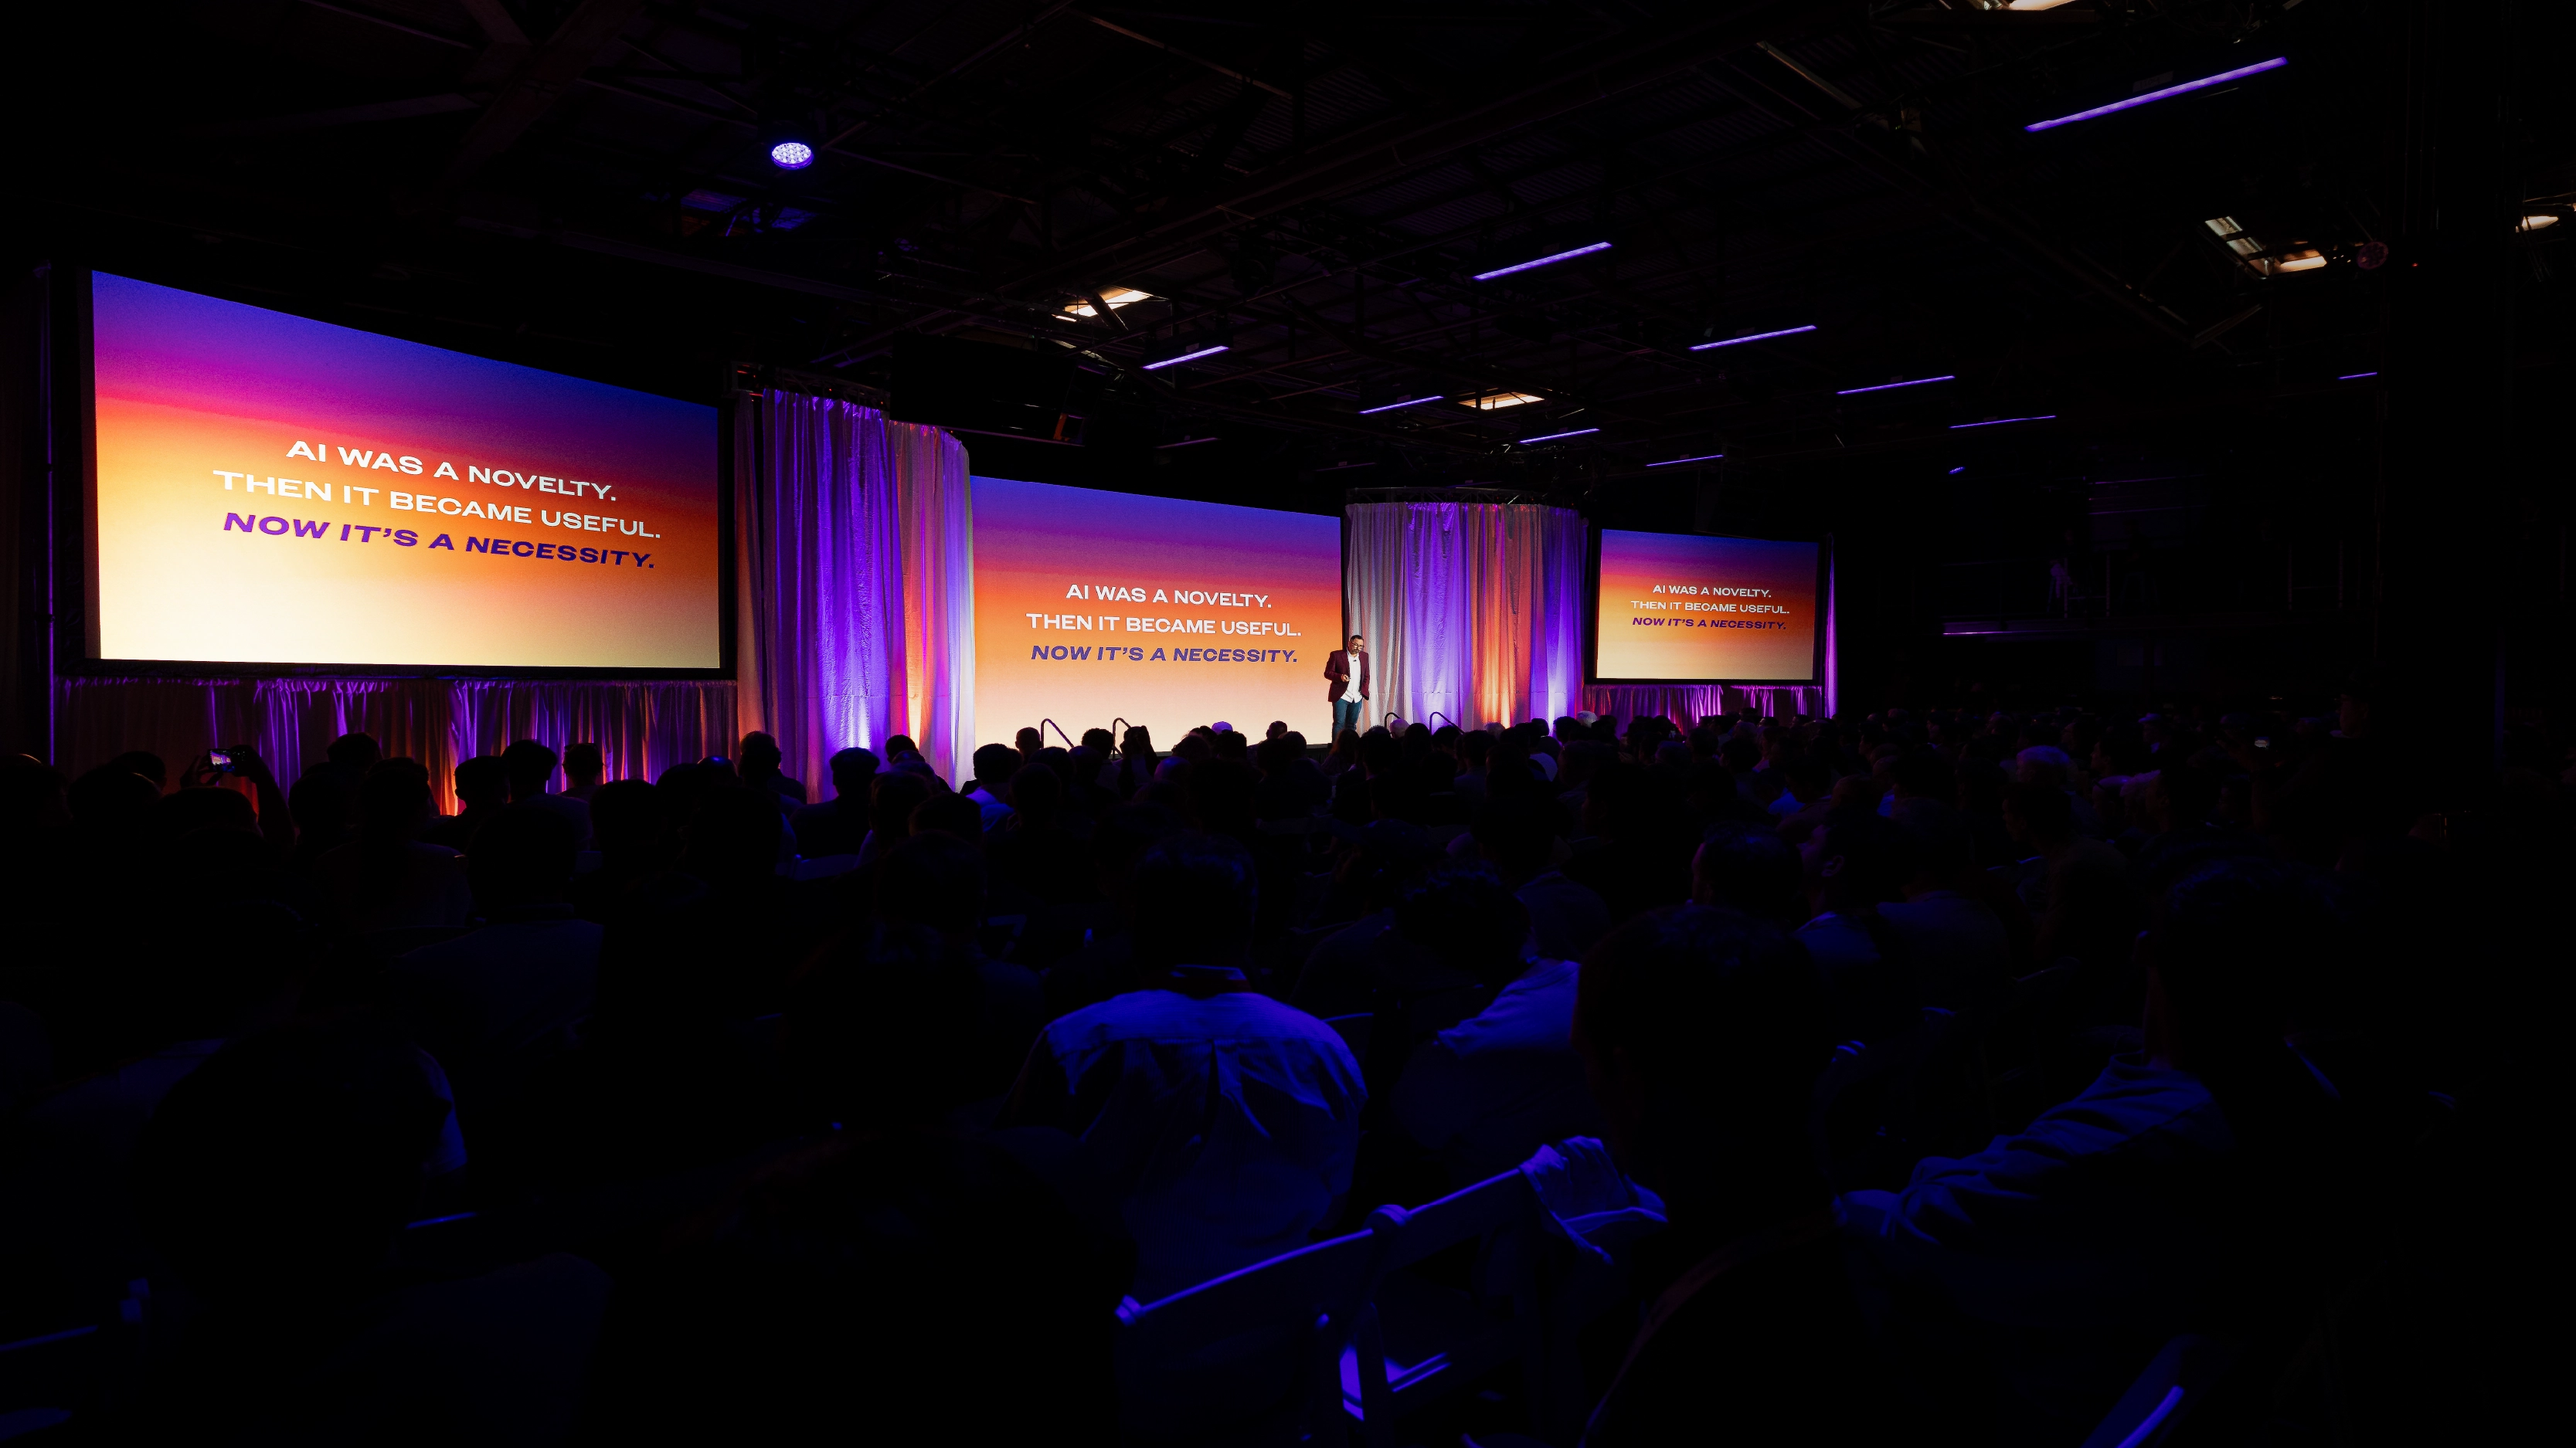
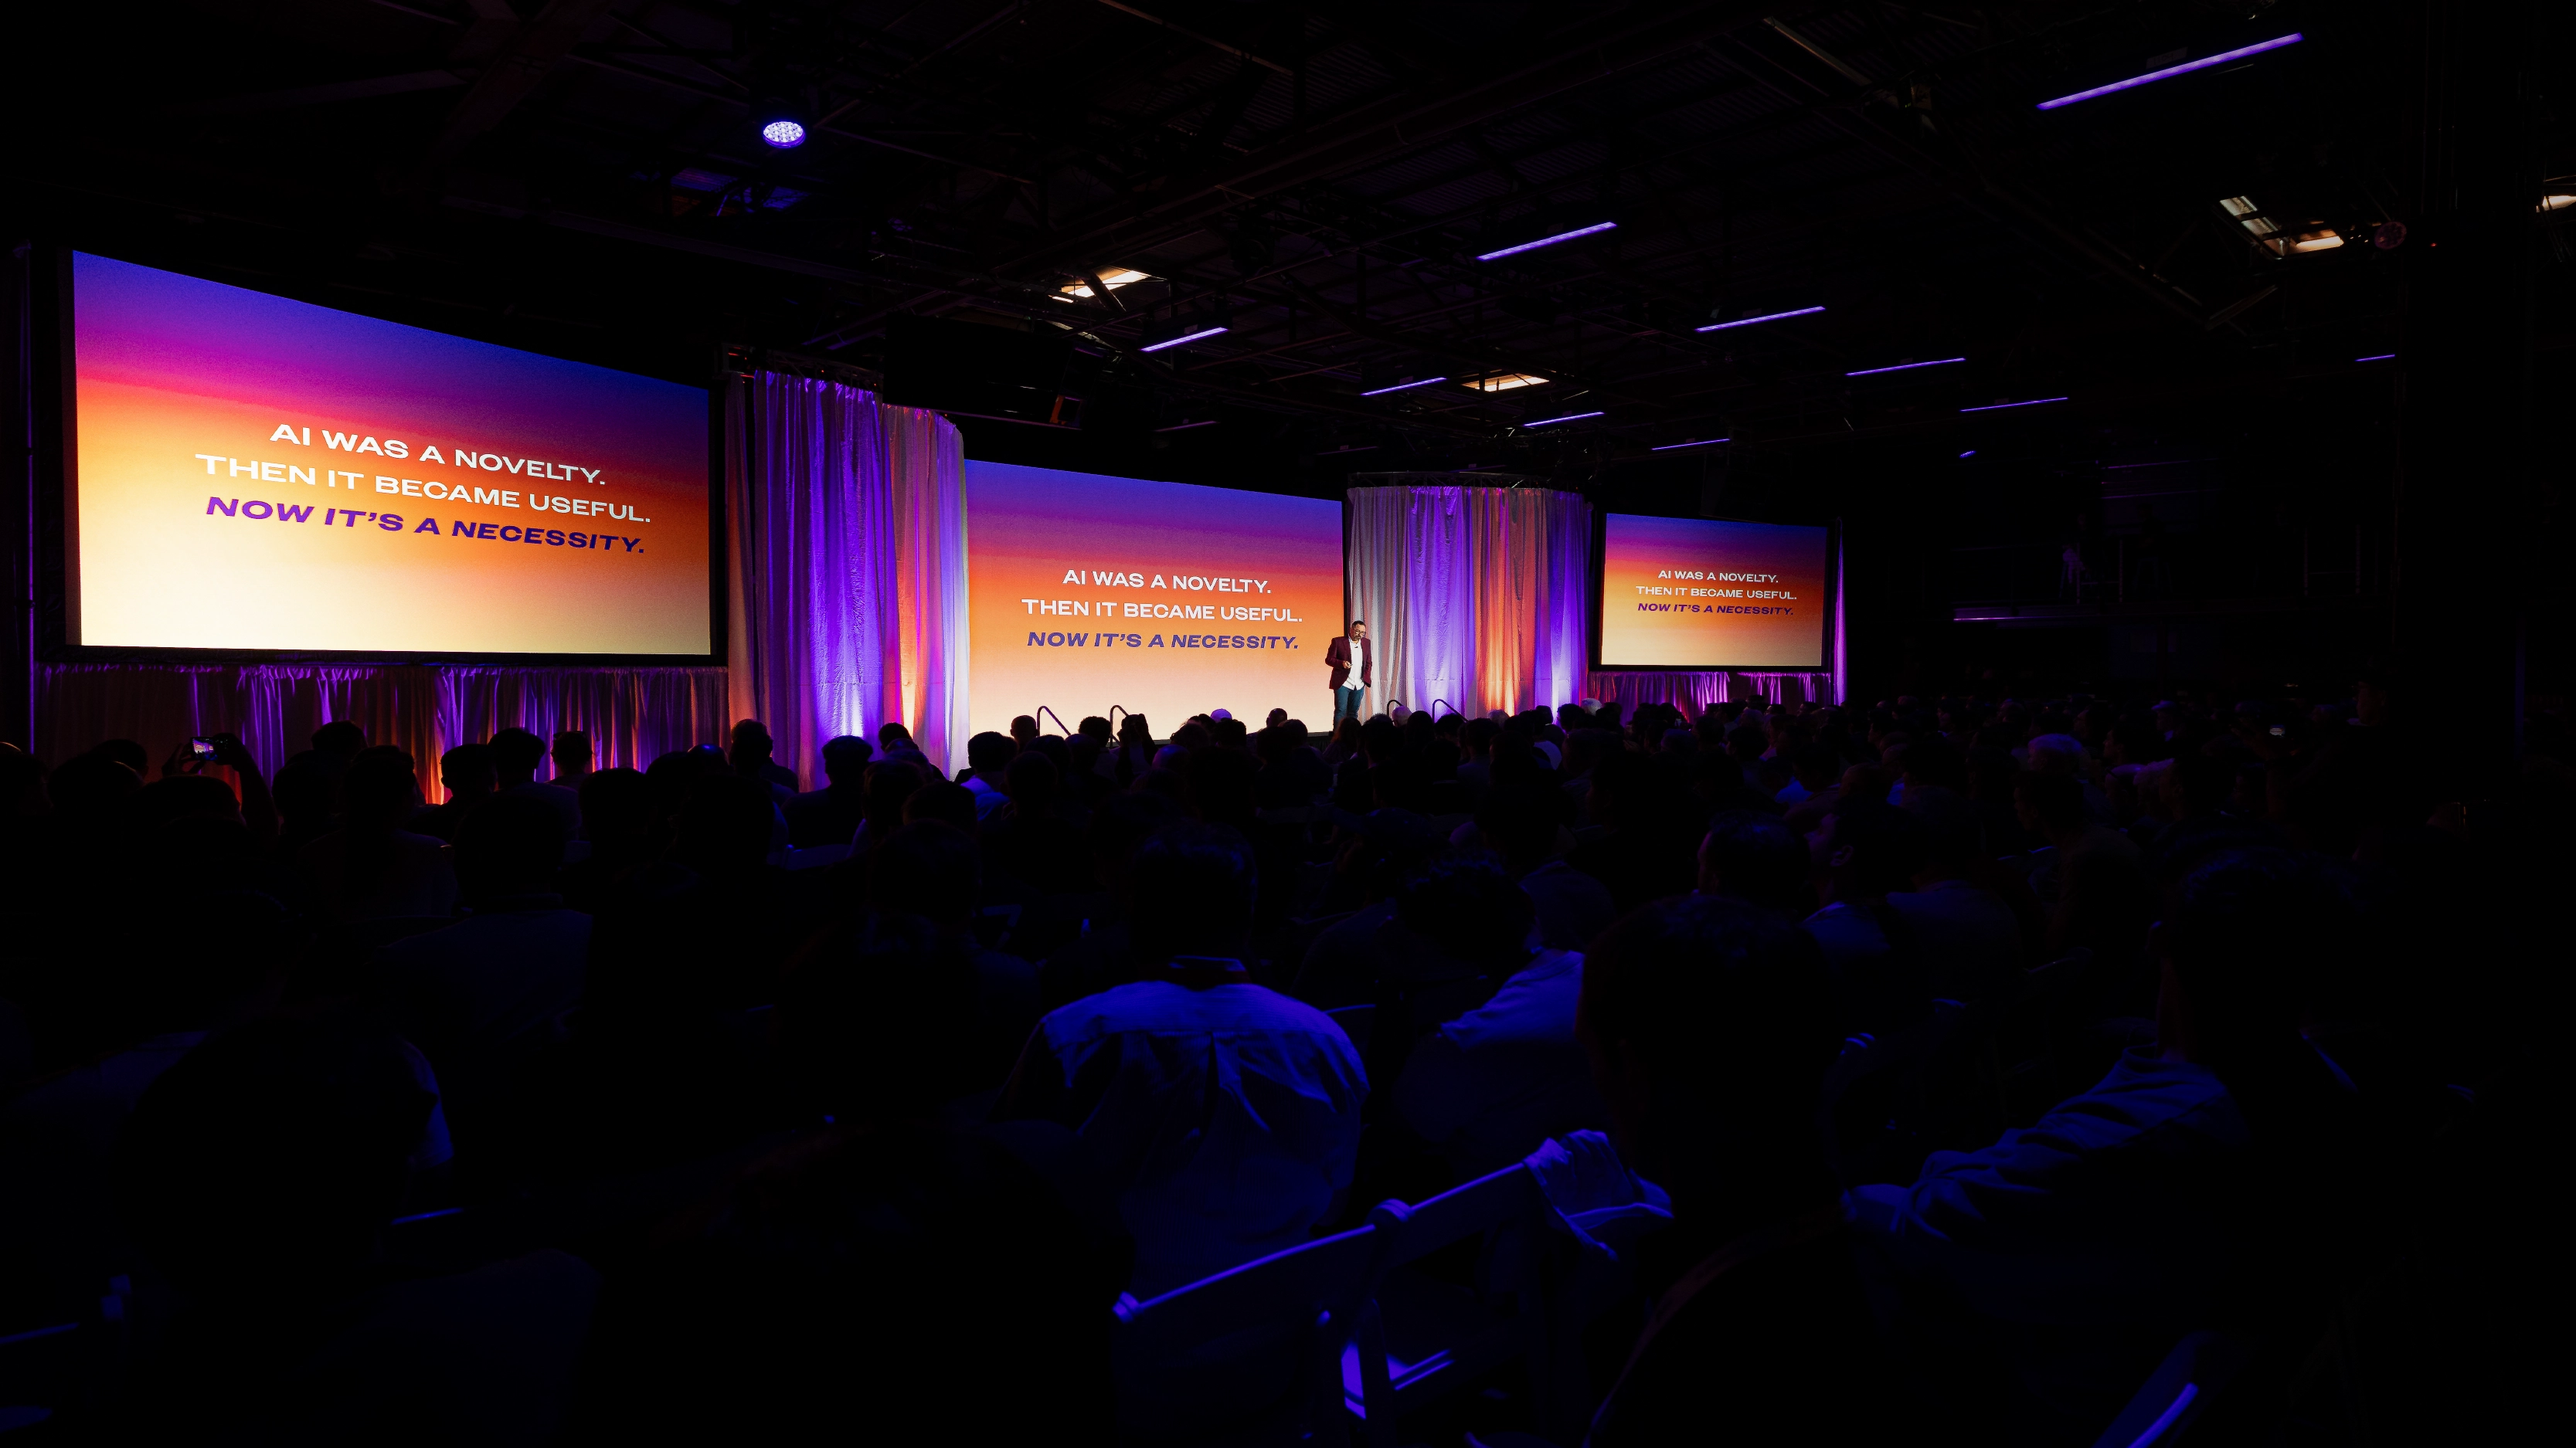
x

diff --git a/cerebras/index.html b/cerebras/index.html
@@ -77,7 +77,7 @@
 				</p>
 			</div>
 			<div class="col-4" id="rwd-intro">
-				<p>CCerebras builds AI infrastructure for fast training and inference. I joined as its first product designer, leading design across the developer platform, brand, and design system as the company prepared for IPO.</p>
+				<p>Cerebras builds AI infrastructure for fast training and inference. I joined as its first product designer, leading design across the developer platform, brand, and design system as the company prepared for IPO.</p>
 				<p>The challenge was to turn a complex, engineering led product into a clear platform experience that could scale across products for millions of developers.</p>
 			</div>
 			<div class="col-1"></div>
@@ -93,7 +93,8 @@
 		<div class="row section-padtop">
 			<div class="col-5"></div>
 			<div class="col-4">
-				<p>At the heart of the design is a modular brand and product system based on Cerebras’ wafer scale chip, extending its geometry across layout, typography, illustration, data visualization, and interface. I also built an AI-ready design system of guidance, reusable components, design tokens, and patterns that engineers could use to build faster and better.</p>
+				<p>At the heart of the design is a modular brand and product system based on Cerebras’ wafer scale chip and modular rack design, extending its design philosophy across layout, typography, illustration, data visualization, and interface.</p>
+				<p>The design system was further built to be AI-ready and became the foundation for software development, giving engineering teams guidance, reusable components, design tokens, and patterns to turn new ideas into shipped products faster and better.</p>
 			</div>
 			<div class="col-1"></div>
 		</div>
@@ -120,9 +121,8 @@
 		<div class="row section-padtop">
 			<div class="col-5"></div>
 			<div class="col-4">
-				<p>The design system was further built to be AI-ready and expanded to be the foundation for software development, giving engineering teams reusable components, patterns, and guidance to turn new ideas into shipped products faster.</p>
-				<p>The underlying system powers products including Cerebras Developer Console, which simplifies complex inference workflows across onboarding, observability, and infrastructure configuration. I iterated on the product with teams including OpenAI, Figma, and Cognition, using their feedback to improve usability for developers building AI products.</p>
-				<p>The same system supported Cerebras Knowledge, an AI native platform connecting docs, code, communication, incidents, and internal systems. Within three months of launch, it was answering more than 15,000 questions a day.</p>
+				<p>The underlying system powers products including Cerebras Developer Console, which simplifies complex inference workflows across onboarding, observability, and deployment. I iterated on the product with teams including OpenAI, Figma, and Cognition, using their feedback to improve usability for developers building AI products.</p>
+				<p>The same system supported Cerebras Knowledge, an AI-native platform connecting docs, code, communication, and internal systems. Within three months of launch, it was answering more than 15,000 questions a day.</p>
 			</div>
 			<div class="col-1"></div>
 		</div>
@@ -135,17 +135,9 @@
 		<div class="row section-padtop">
 			<div class="col-5"></div>
 			<div class="col-4">
-				<p>The new brand and product platform debuted at Cerebras’ flagship Supernova event, expanding the story beyond raw inference speed to new possibilities for what developers could build.</p>
-				<p>The work prepared Cerebras to go public. It became one of the biggest IPOs in AI and has been a primary driver of the overall stock market’s performance in 2026.</p>
+				<p>The project prepared Cerebras to go public. It became one of the biggest IPOs in AI and has been a primary driver of the overall stock market’s performance in 2026.</p>
 			</div>
-			<div class="col-1"></div>
-		</div>
-		<div class="row section-padtop">
-			<div class="col-10"><img src="cerebras-17.webp"></div>
-		</div>
-		<div class="row">
-			<div class="col-5"><img src="cerebras-18.webp"></div>
-			<div class="col-5"><img src="cerebras-19.webp"></div>
+			<div class="col-1 section-padtop"></div>
 		</div>
 		<div class="row">
 			<div class="col-5"><img src="cerebras-14.webp"></div>
@@ -154,12 +146,26 @@
 		<div class="row">
 			<div class="col-10"><img src="cerebras-13.webp"></div>
 		</div>
+		<div class="row section-padtop">
+			<div class="col-5"></div>
+			<div class="col-4">
+				<p>The refreshed brand and product platform debuted at Cerebras’ flagship Supernova event, expanding the story beyond raw inference speed to new possibilities for what the world could build.</p>
+			</div>
+			<div class="col-1"></div>
+		</div>
+		<div class="row section-padtop">
+			<div class="col-5"><img src="cerebras-18.webp"></div>
+			<div class="col-5"><img src="cerebras-19.webp"></div>
+		</div>
+		<div class="row">
+			<div class="col-10"><img src="cerebras-17.webp"></div>
+		</div>
 		<!-- CREDITS -->
 		<div class="row section-padtop" id="credits">
 			<div class="col-5"></div>
 			<div class="col-4">
 				<p><span>Design</span><br>
-					JJ Moi
+					JJ Moi / Chris Kim / Viktoriia Bazhul
 				</p>
 				<p><span>Product</span><br>
 					Yolanda Yeh / Brandon Kang / Joyce He
